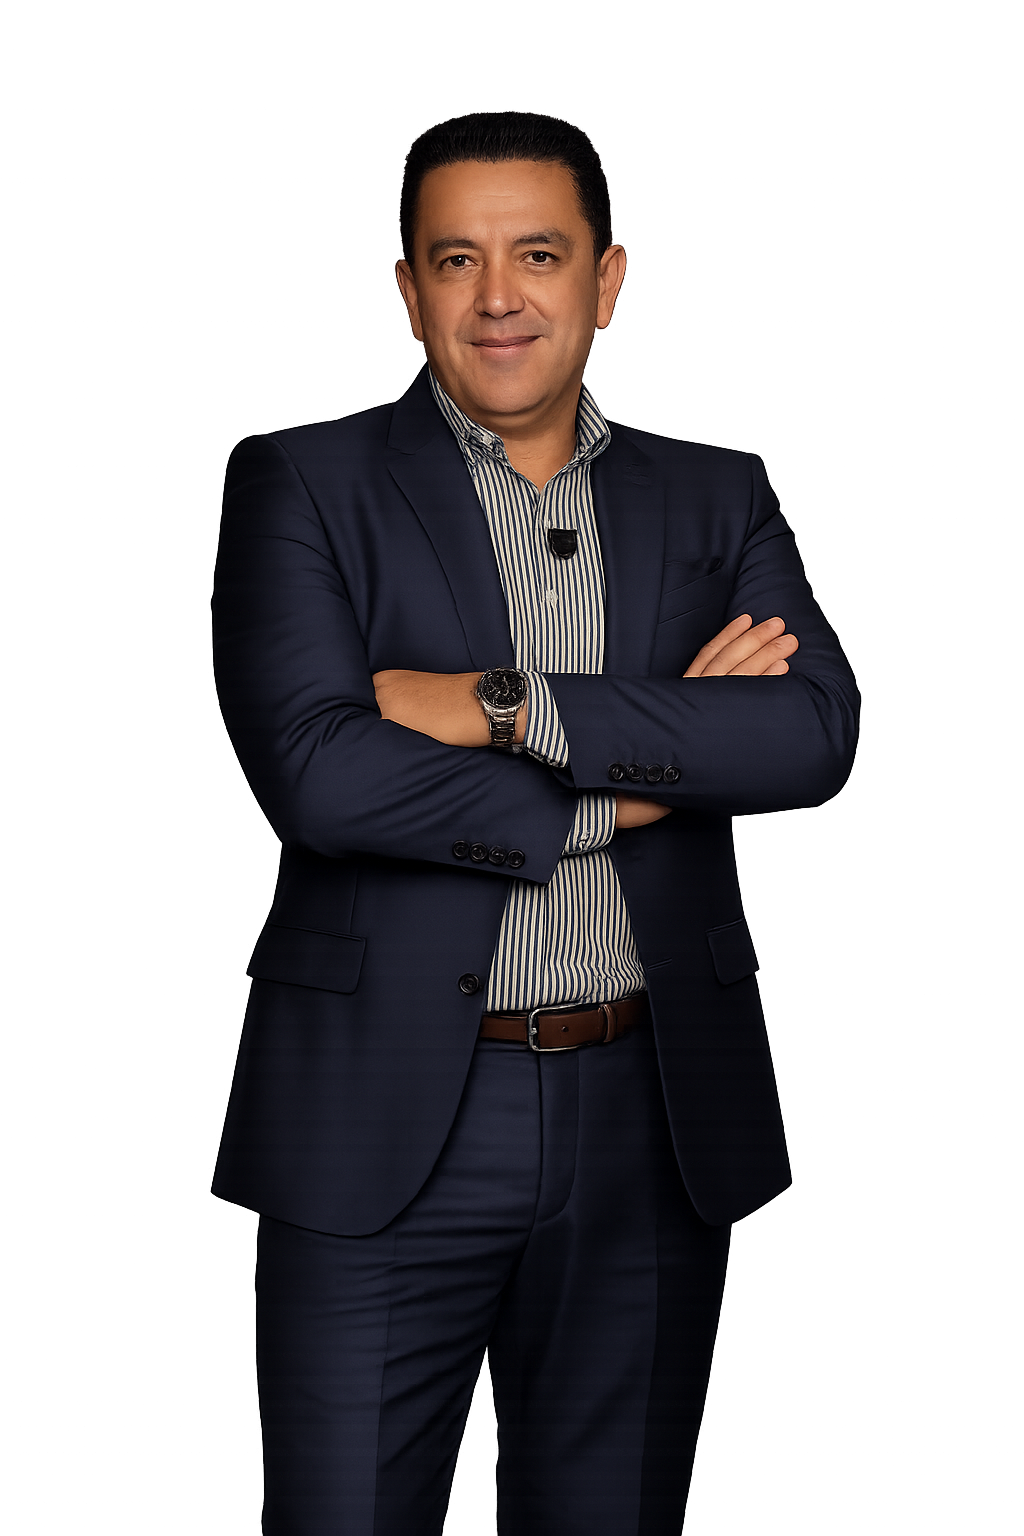
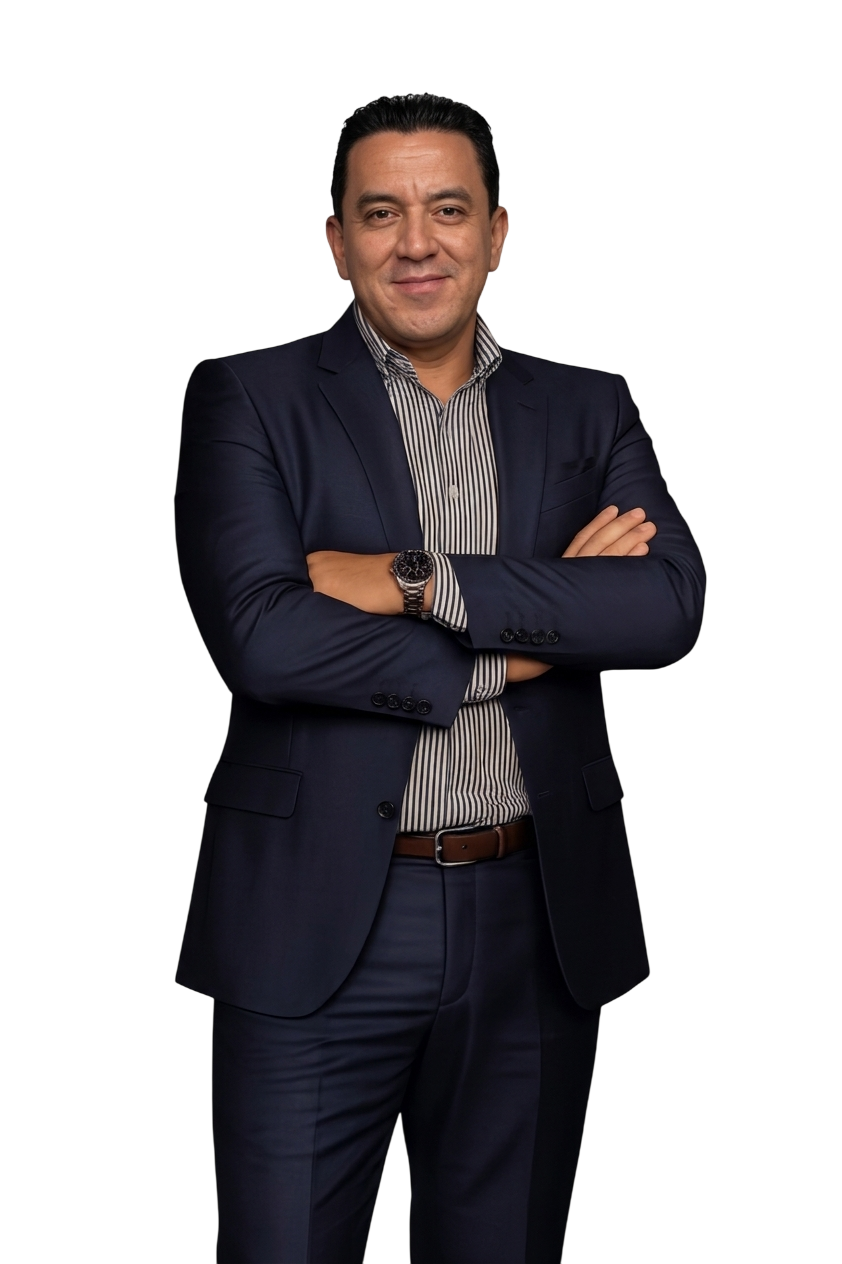
Add FloatingWhatsApp component, enhance CaseResults styling, and update contact information

diff --git a/lib/data.ts b/lib/data.ts
@@ -15,11 +15,11 @@ export const lawyerPhoto = "/images/lawyer-profile-photo.png";
 export const JudicialComplexCenter = "/images/complejo_judicial.jpg";
 
 export const contactInfo = {
-  phone: "+505 0000 0000",
-  phoneHref: "tel:+50500000000",
+  phone: "+505 8516 4382",
+  phoneHref: "tel:+50585164382",
   email: "[email redacted]",
   emailHref: "mailto:[email redacted]",
-  whatsapp: "https://wa.me/50500000000",
+  whatsapp: "https://wa.me/50585164382",
   location: "Managua, Nicaragua",
   schedule: "Horario por confirmar"
 };
@@ -89,20 +89,35 @@ export const cases = [
   {
     title: "Procesos juridicos complejos",
     category: "Analisis y estrategia",
-    image: lawyerPhoto,
-    text: "Revision tecnica de antecedentes, riesgos y rutas legales antes de tomar decisiones."
+    image: "/images/strategy-office.png",
+    position: {
+      x: "100%",
+      y: "100%",
+    },
+      zoom: 1.8,
+    text: "Revision tecnica..."
   },
   {
     title: "Recursos e impugnaciones",
     category: "Apelacion y casacion",
-    image: lawyerPhoto,
-    text: "Preparacion de argumentos juridicos para la defensa de derechos en instancias superiores."
+    image: "/images/strategy-documents.png",
+    position: {
+      x: "34%",
+      y: "50%",
+    },
+    zoom: 1,
+    text: "Preparacion..."
   },
   {
     title: "Representacion de personas y empresas",
     category: "Acompanamiento legal",
-    image: lawyerPhoto,
-    text: "Asesoria clara y seguimiento profesional para asuntos legales de distinta naturaleza."
+    image: "/images/strategy-court.png",
+    position: {
+      x: "50%",
+      y: "100%",
+    },
+    zoom: 1.5,
+    text: "Asesoria..."
   }
 ];
 

diff --git a/app/globals.css b/app/globals.css
@@ -34,3 +34,28 @@ body {
 .premium-focus {
   @apply focus-visible:outline focus-visible:outline-2 focus-visible:outline-offset-4 focus-visible:outline-gold-500;
 }
+
+.whatsapp-premium-pulse {
+  animation: whatsapp-premium-pulse 3.6s ease-out infinite;
+  will-change: transform, opacity;
+}
+
+@keyframes whatsapp-premium-pulse {
+  0%,
+  68%,
+  100% {
+    opacity: 0.36;
+    transform: scale(1);
+  }
+
+  36% {
+    opacity: 0;
+    transform: scale(1.28);
+  }
+}
+
+@media (prefers-reduced-motion: reduce) {
+  .whatsapp-premium-pulse {
+    animation: none;
+  }
+}

diff --git a/components/CaseResults.tsx b/components/CaseResults.tsx
@@ -19,14 +19,30 @@ export function CaseResults() {
         </div>
         <div className="mt-14 grid gap-5 lg:grid-cols-3">
           {cases.map((item) => (
-            <article className="group relative min-h-[430px] overflow-hidden" key={item.title}>
+            <article className="group relative min-h-[430px] overflow-hidden bg-navy-950 shadow-premium" key={item.title}>
               <Image
                 src={item.image}
                 alt={item.title}
                 fill
-                className="object-cover object-top transition duration-500 group-hover:scale-105"
+                className="
+                  object-cover
+                  saturate-[0.82]
+                  contrast-[1.06]
+                  brightness-[0.99]
+                  backdrop-blur-lg
+                  transition
+                  duration-700
+                  group-hover:saturate-100
+                "
+                style={{
+                  objectPosition: `${item.position.x} ${item.position.y}`,
+                  transform: `scale(${item.zoom})`,
+                }}
+
               />
-              <div className="absolute inset-0 bg-gradient-to-t from-navy-950 via-navy-950/55 to-transparent" />
+              <div className="absolute inset-0 bg-[linear-gradient(180deg,rgba(7,17,31,0.08)_0%,rgba(7,17,31,0.28)_42%,rgba(7,17,31,0.94)_100%)]" />
+              <div className="absolute inset-0 ring-1 ring-inset ring-white/10" />
+              <div className="absolute left-0 top-0 h-full w-full bg-gold-500/8 opacity-0 mix-blend-soft-light transition duration-500 group-hover:opacity-100" />
               <div className="absolute inset-x-0 bottom-0 p-7">
                 <p className="text-xs font-semibold uppercase tracking-[0.24em] text-gold-500">{item.category}</p>
                 <h3 className="mt-3 font-serif text-3xl">{item.title}</h3>

diff --git a/components/FloatingWhatsApp.tsx b/components/FloatingWhatsApp.tsx
@@ -1,0 +1,18 @@
+import { MessageCircle } from "lucide-react";
+import { contactInfo } from "@/lib/data";
+
+export function FloatingWhatsApp() {
+  return (
+    <a
+      aria-label="Hablar por WhatsApp"
+      className="premium-focus group fixed bottom-5 right-5 z-[60] inline-flex items-center gap-3 rounded-full bg-[#00fd5d] p-4 font-semibold text-white shadow-[0_18px_45px_rgba(7,17,31,0.28)] transition duration-700 hover:-translate-y-1 hover:bg-[#1fb85a] sm:bottom-7 sm:right-7 sm:px-5"
+      href={contactInfo.whatsapp}
+    >
+      <span className="whatsapp-premium-pulse absolute inset-[-5px] -z-10 rounded-full border border-[#25D366]/95" />
+      <span className="absolute inset-[-8px] -z-20 rounded-full bg-[#25D366]/10 blur-[2px]" />
+      <span className="grid h-10 w-10 place-items-center rounded-full bg-white/18 backdrop-blur">
+        <MessageCircle className="h-5 w-5" aria-hidden />
+      </span>
+    </a>
+  );
+}

diff --git a/components/Header.tsx b/components/Header.tsx
@@ -1,4 +1,4 @@
-import { CalendarClock, Facebook, Instagram, Linkedin, Mail, Menu, MessageCircle, Phone } from "lucide-react";
+import { CalendarClock, Facebook, Instagram, Linkedin, Mail, Menu, Phone } from "lucide-react";
 import { contactInfo, navItems } from "@/lib/data";
 
 export function Header() {
@@ -66,13 +66,6 @@ export function Header() {
               href="#contacto"
             >
               Solicitar consulta
-            </a>
-            <a
-              aria-label="Hablar por WhatsApp"
-              className="premium-focus grid h-11 w-11 place-items-center border border-white/15 text-white transition hover:border-gold-500 hover:text-gold-500"
-              href={contactInfo.whatsapp}
-            >
-              <MessageCircle className="h-5 w-5" aria-hidden />
             </a>
             <button
               aria-label="Abrir menu"

diff --git a/app/page.tsx b/app/page.tsx
@@ -3,6 +3,7 @@ import { AttorneySection } from "@/components/AttorneySection";
 import { BlogPreview } from "@/components/BlogPreview";
 import { CaseResults } from "@/components/CaseResults";
 import { FAQContact } from "@/components/FAQContact";
+import { FloatingWhatsApp } from "@/components/FloatingWhatsApp";
 import { Footer } from "@/components/Footer";
 import { Header } from "@/components/Header";
 import { Hero } from "@/components/Hero";
@@ -26,6 +27,7 @@ export default function Home() {
       <Metrics />
       <BlogPreview />
       <Footer />
+      <FloatingWhatsApp />
     </main>
   );
 }

diff --git a/components/Hero.tsx b/components/Hero.tsx
@@ -37,7 +37,7 @@ export function Hero() {
               href={contactInfo.whatsapp}
             >
               Hablar por WhatsApp
-              <MessageCircle className="h-4 w-4" aria-hidden />
+              <MessageCircle className="h-4 w-4 mt-2 mx-2" aria-hidden />
             </a>
           </div>
           <div className="mt-12 flex items-center gap-5 text-sm text-white/65">